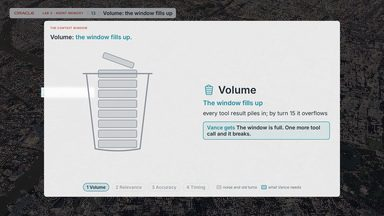
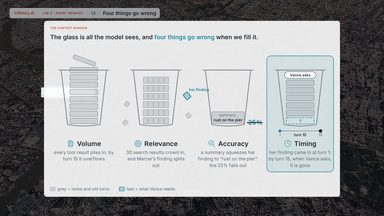
Lab 3 page 13: back to one page with the four glasses in one picture, appearing one after another (the active one lit); Timing retold on a timeline; page 16 footer removed

diff --git a/src/overlay/concepts/Glass.tsx b/src/overlay/concepts/Glass.tsx
@@ -9,8 +9,8 @@ export interface GlassProps {
   kicker: string;
   /** the one line the presenter lands; **teal** and !!red!! marks as in Rich.tsx */
   message: string;
-  /** 1: the glass fills with what goes into the context window; 2 to 5: the four ways that goes wrong, one click each (Volume, Relevance, Accuracy, Timing; owner, 4 Nov) */
-  step: 1 | 2 | 3 | 4 | 5;
+  /** 1: the glass fills with what goes into the context window; 2: the four ways that goes wrong */
+  step: 1 | 2;
   notebook?: string;
 }
 
@@ -51,7 +51,7 @@ export function Glass({ kicker, message, step, notebook }: GlassProps) {
           </motion.div>
         ) : (
           <motion.div key="wrong" exit={{ opacity: 0 }} transition={{ duration: 0.3 }} style={{ flex: 1, minHeight: 0, display: 'flex', flexDirection: 'column' }}>
-            <OneProblem i={step - 2} />
+            <FourGlasses />
           </motion.div>
         )}
       </AnimatePresence>
@@ -209,9 +209,9 @@ export const WRONG: { word: string; text: string }[] = [
 /** a tumbler 200 wide, rim at y=40, base at y=230; pieces are drawn inside it */
 const TUMBLER = 'M22 40L44 228Q100 238 156 228L178 40';
 
-export function MiniGlass({ word, t0, children, max = 290 }: { word: string; t0: number; children: (t0: number) => ReactNode; max?: number }) {
+export function MiniGlass({ word, t0, children }: { word: string; t0: number; children: (t0: number) => ReactNode }) {
   return (
-    <svg data-glass={word} width={max} height={(max * 270) / 200} viewBox="0 0 200 270" style={{ overflow: 'visible', width: '100%', maxWidth: max, height: 'auto' }} aria-hidden="true">
+    <svg data-glass={word} width={290} height={392} viewBox="0 0 200 270" style={{ overflow: 'visible', width: '100%', maxWidth: 290, height: 'auto' }} aria-hidden="true">
       {children(t0)}
       <path d={TUMBLER} fill="none" stroke={GREY_LINE} strokeWidth={3} strokeLinejoin="round" />
       <line x1={14} y1={40} x2={186} y2={40} stroke={GREY_LINE} strokeWidth={3} strokeLinecap="round" />
@@ -304,7 +304,7 @@ const AccuracyGlass = (t0: number) => (
     <motion.g data-piece="summary" initial={{ opacity: 0, scale: 0.7 }} animate={{ opacity: 1, scale: 1 }} transition={{ delay: t0 + 1.3, duration: 0.45, ease: EASE }} style={{ transformOrigin: '100px 205px' }}>
       <rect x={44} y={184} width={112} height={40} rx={4} fill={GREY_FILL} stroke={GREY_LINE} strokeWidth={1.5} />
       <text x={100} y={200} textAnchor="middle" fontSize={13} fill="var(--ink-dim)">summary:</text>
-      <text x={100} y={217} textAnchor="middle" fontSize={12} fontWeight={600} fill="var(--ink)">rust on the pier</text>
+      <text x={100} y={217} textAnchor="middle" fontSize={14} fontWeight={600} fill="var(--ink)">rust on the pier</text>
     </motion.g>
     {/* the number falls out over the rim, struck through */}
     <motion.g data-piece="lost" initial={{ opacity: 0, x: 0, y: 0 }} animate={{ opacity: [0, 1, 1], x: [0, 0, 92], y: [0, -40, 60] }} transition={{ delay: t0 + 1.2, duration: 1.1, times: [0, 0.35, 1], ease: EASE }}>
@@ -366,7 +366,7 @@ function useTick(from: number, to: number, delay: number, secs: number): number 
 function TurnCounter({ t0 }: { t0: number }) {
   const n = useTick(1, 15, t0 + 1.2, 2.6);
   return (
-    <text x={100} y={282} textAnchor="middle" fontSize={15} fontWeight={700} fill="var(--ink)">
+    <text x={100} y={268} textAnchor="middle" fontSize={13} fontWeight={700} fill="var(--ink)">
       turn {n}
     </text>
   );
@@ -394,86 +394,60 @@ export const TimingStory = (t0: number) => (
       <text x={100} y={62} textAnchor="middle" fontSize={13} fontWeight={600} fill="var(--ink)">Vance asks</text>
     </motion.g>
     <g fontSize={13} fill="var(--ink-dim)">
-      <line x1={30} y1={256} x2={170} y2={256} stroke={GREY_LINE} strokeWidth={2} />
-      <circle cx={30} cy={256} r={5} fill="var(--teal)" />
-      <motion.circle data-piece="clock" cy={256} r={6} fill="var(--ink)" initial={{ cx: 30, opacity: 0 }} animate={{ cx: [30, 30, 170], opacity: [0, 1, 1] }} transition={{ delay: t0 + 1.2, duration: 2.6, times: [0, 0.01, 1], ease: 'linear' }} />
-      <text x={30} y={273} textAnchor="middle">1</text>
-      <text x={170} y={273} textAnchor="middle">15</text>
+      <line x1={30} y1={250} x2={170} y2={250} stroke={GREY_LINE} strokeWidth={2} />
+      <circle cx={30} cy={250} r={5} fill="var(--teal)" />
+      <motion.circle data-piece="clock" cy={250} r={6} fill="var(--ink)" initial={{ cx: 30, opacity: 0 }} animate={{ cx: [30, 30, 170], opacity: [0, 1, 1] }} transition={{ delay: t0 + 1.2, duration: 2.6, times: [0, 0.01, 1], ease: 'linear' }} />
+      <text x={30} y={268} textAnchor="middle">1</text>
+      <text x={170} y={268} textAnchor="middle">15</text>
     </g>
     <TurnCounter t0={t0} />
   </>
 );
 
-/** what Vance gets, for each problem (one short line under its explanation) */
-const OUTCOME = [
-  'The window is full. One more tool call and it breaks.',
-  'Her finding is buried, then pushed out by the rest.',
-  '“Rust on the pier”, and no 25%.',
-  'A blank, where her finding should be.',
-];
+/**
+ * The four glasses play one after another (owner, 4 Nov: one page, the four glasses in one picture, each appearing in turn so the
+ * presenter can talk to one at a time). Each glass starts at its own time; the one playing is lit, the ones before it stay as they ended,
+ * the ones after it wait as empty tumblers. Timing needs the longest slot: it is a small story of its own.
+ */
+export const GLASS_STARTS = [0.5, 7, 13.5, 20];
 
-/** one click, one glass (owner, 4 Nov): a big drawing playing on its own, its explanation beside it, and the four problems as a tracker below */
-function OneProblem({ i }: { i: number }) {
-  const w = WRONG[i];
-  const c = CURATION[i];
-  const draw = i === 3 ? TimingStory : DRAW[i];
-  return (
-    <Fill>
-      <div style={{ flex: '1 0 auto', display: 'grid', gridTemplateColumns: 'minmax(0, 1fr) minmax(0, 1fr)', gap: 110, alignItems: 'center', padding: '4px 20px 0' }}>
-        <div data-problem={w.word} style={{ display: 'flex', justifyContent: 'center' }}>
-          <MiniGlass key={i} word={w.word} t0={0.5} max={400}>
-            {draw}
-          </MiniGlass>
-        </div>
-        <motion.div key={`t${i}`} initial={{ opacity: 0, x: 16 }} animate={{ opacity: 1, x: 0 }} transition={{ delay: 0.15, duration: 0.5, ease: EASE }}>
-          <div style={{ display: 'flex', alignItems: 'center', gap: 16, fontSize: 52, fontWeight: 700, color: 'var(--ink)' }}>
-            <LineIcon name={c.icon} size={60} />
-            {w.word}
-          </div>
-          <div style={{ fontSize: 32, fontWeight: 600, color: 'var(--teal)', marginTop: 14, lineHeight: 1.25 }}>{c.title}</div>
-          <div style={{ fontSize: 28, lineHeight: 1.4, color: 'var(--ink)', marginTop: 12 }}>{w.text}</div>
-          <motion.div data-outcome initial={{ opacity: 0 }} animate={{ opacity: 1 }} transition={{ delay: 2.6, duration: 0.5 }} style={{ marginTop: 22, padding: '12px 18px', borderRadius: 12, border: '2px solid var(--teal)', background: 'rgba(27,138,156,0.08)', fontSize: 26, fontWeight: 600, color: 'var(--ink)' }}>
-            <span style={{ color: 'var(--teal)' }}>Vance gets </span>
-            {OUTCOME[i]}
-          </motion.div>
-        </motion.div>
-      </div>
-      <div data-legend="glass" style={{ flex: 'none', display: 'flex', gap: 14, justifyContent: 'center', marginTop: 18, alignItems: 'center', flexWrap: 'wrap' }}>
-        {WRONG.map((x, k) => (
-          <span key={x.word} data-track={x.word} data-on={k === i || undefined} style={{ display: 'inline-flex', alignItems: 'center', gap: 8, padding: '6px 16px', borderRadius: 999, fontSize: 22, fontWeight: 700, border: `2px solid ${k === i ? 'var(--teal)' : 'var(--line)'}`, background: k === i ? 'rgba(27,138,156,0.14)' : 'transparent', color: k <= i ? 'var(--ink)' : 'var(--ink-dim)', opacity: k > i ? 0.6 : 1 }}>
-            {k < i ? '✓' : k + 1} {x.word}
-          </span>
-        ))}
-        <span style={{ display: 'inline-flex', gap: 22, marginLeft: 24, fontSize: 19, color: 'var(--ink-dim)' }}>
-          <span style={{ display: 'inline-flex', alignItems: 'center', gap: 8 }}>
-            <i style={{ width: 22, height: 16, borderRadius: 3, background: GREY_FILL, border: `1.5px solid ${GREY_LINE}` }} /> noise and old turns
-          </span>
-          <span style={{ display: 'inline-flex', alignItems: 'center', gap: 8 }}>
-            <i style={{ width: 22, height: 16, borderRadius: 3, background: TEAL_FILL, border: '2px solid var(--teal)' }} /> what Vance needs
-          </span>
-        </span>
-      </div>
-    </Fill>
-  );
+function useSeconds(max: number): number {
+  const [t, setT] = useState(0);
+  useEffect(() => {
+    const t0 = performance.now();
+    const id = window.setInterval(() => {
+      const s = (performance.now() - t0) / 1000;
+      setT(s);
+      if (s > max) window.clearInterval(id);
+    }, 100);
+    return () => window.clearInterval(id);
+  }, [max]);
+  return t;
 }
 
 function FourGlasses() {
+  const now = useSeconds(GLASS_STARTS[3] + 1);
+  const active = GLASS_STARTS.reduce((a, s, i) => (now >= s ? i : a), -1);
   return (
     <Fill>
       <div style={{ flex: '1 0 auto', display: 'grid', gridTemplateColumns: 'repeat(4, 1fr)', gap: 24, alignContent: 'center', paddingTop: 12 }}>
-        {WRONG.map((w, i) => (
-          <motion.div key={w.word} data-problem={w.word} initial={{ opacity: 0 }} animate={{ opacity: 1 }} transition={{ delay: 0.1 + i * 0.1, duration: 0.4 }} style={{ display: 'flex', flexDirection: 'column', alignItems: 'center', textAlign: 'center' }}>
-            <MiniGlass word={w.word} t0={START + i * SLOT}>
-              {DRAW[i]}
-            </MiniGlass>
-            {/* the same icon comes back when the problem is solved (Ending.tsx, 3.15b) */}
-            <div style={{ display: 'flex', alignItems: 'center', gap: 12, fontSize: 33, fontWeight: 700, color: 'var(--ink)', marginTop: 14 }}>
-              <LineIcon name={CURATION[i].icon} size={40} />
-              {w.word}
-            </div>
-            <div style={{ fontSize: 23, lineHeight: 1.4, color: 'var(--ink-dim)', marginTop: 8, maxWidth: 320 }}>{w.text}</div>
-          </motion.div>
-        ))}
+        {WRONG.map((w, i) => {
+          const started = i <= active;
+          const lit = i === active;
+          return (
+            <motion.div key={w.word} data-problem={w.word} data-active={lit || undefined} animate={{ opacity: started ? 1 : 0.35 }} transition={{ duration: 0.5 }} style={{ display: 'flex', flexDirection: 'column', alignItems: 'center', textAlign: 'center', padding: '14px 8px 18px', borderRadius: 22, background: lit ? 'rgba(27,138,156,0.10)' : 'transparent', boxShadow: lit ? 'inset 0 0 0 2.5px var(--teal)' : 'none', transition: 'background 500ms, box-shadow 500ms' }}>
+              <MiniGlass word={w.word} t0={GLASS_STARTS[i]}>
+                {i === 3 ? TimingStory : DRAW[i]}
+              </MiniGlass>
+              {/* the same icon comes back when the problem is solved (Ending.tsx, 3.15b) */}
+              <div style={{ display: 'flex', alignItems: 'center', gap: 12, fontSize: 33, fontWeight: 700, color: 'var(--ink)', marginTop: 14 }}>
+                <LineIcon name={CURATION[i].icon} size={40} />
+                {w.word}
+              </div>
+              <div style={{ fontSize: 23, lineHeight: 1.4, color: 'var(--ink-dim)', marginTop: 8, maxWidth: 320, opacity: started ? 1 : 0, transition: 'opacity 600ms' }}>{w.text}</div>
+            </motion.div>
+          );
+        })}
       </div>
       <div data-legend="glass" style={{ flex: 'none', display: 'flex', gap: 48, marginTop: 20, fontSize: 21, color: 'var(--ink-dim)' }}>
         <span style={{ display: 'flex', alignItems: 'center', gap: 10 }}>

diff --git a/src/content/scriptTh.ts b/src/content/scriptTh.ts
@@ -64,21 +64,11 @@ export const SCRIPT_TH: Record<string, string[]> = {
     "แก้วมีขนาดคงที่ และสิ่งที่อยู่นอกแก้วโมเดลมองไม่เห็นเลย ไม่ว่าจะเป็นแชตที่ปิดของ Mercer ฐานข้อมูล หรือเมื่อวาน"
   ],
   "3.3b": [
-    "เวลาเติมแก้ว มีสี่อย่างที่ผิดพลาดได้ เรามาดูทีละอย่าง อย่างแรกคือ ปริมาณ",
-    "ผลลัพธ์จากเครื่องมือกองเข้ามาในแก้วทั้งหมด พอถึงรอบที่ 15 ก็ล้น เรียกเครื่องมือเพิ่มอีกครั้งเดียว ระบบก็พัง"
-  ],
-  "3.3c": [
-    "อย่างที่สองคือ ความเกี่ยวข้อง ผลค้นหาสามสิบรายการเบียดกันเข้ามา มากกว่าที่แก้วจุได้ และล้นข้างแก้ว",
-    "ผลตรวจของ Mercer ก็หล่นออกไปด้วย เพราะข้อมูลส่วนใหญ่ที่เข้ามา Vance ไม่ได้ขอเลย"
-  ],
-  "3.3d": [
-    "อย่างที่สามคือ ความถูกต้อง เพื่อประหยัดที่ การสรุปบีบข้อมูลของเธอเหลือแค่ “มีสนิมที่เสา”",
-    "ตัวเลข 25 เปอร์เซ็นต์หลุดหายไป และรายละเอียดที่สำคัญก็หายไปด้วย"
-  ],
-  "3.3e": [
-    "อย่างที่สี่คือ จังหวะเวลา ผลตรวจของเธอถูกโหลดเข้ามาตั้งแต่รอบที่ 1 จากนั้นแต่ละรอบก็กองทับเข้ามา",
-    "พอถึงรอบที่ 15 ตอนที่ Vance ถามจริง ๆ มันถูกดันออกไปแล้ว เหลือที่ว่างตรงที่ควรมีผลตรวจ",
-    "ข้อมูลที่ถูกต้องแต่มาผิดจังหวะ: ถูกโหลดครั้งเดียวตอนเริ่ม และไม่มีใครดึงมาใหม่ตอนที่เขาถาม"
+    "เวลาเติมแก้ว มีสี่อย่างที่ผิดพลาดได้",
+    "หนึ่ง ปริมาณ ผลลัพธ์จากเครื่องมือกองเข้ามาทั้งหมด พอถึงรอบที่ 15 ก็ล้น",
+    "สอง ความเกี่ยวข้อง ผลค้นหาสามสิบรายการเบียดกันเข้ามา และผลตรวจของ Mercer ถูกดันตกออกไป",
+    "สาม ความถูกต้อง การสรุปบีบข้อมูลของเธอเหลือแค่ “มีสนิมที่เสา” และตัวเลข 25 เปอร์เซ็นต์ก็หลุดหายไป",
+    "สี่ จังหวะเวลา ผลตรวจของเธอเข้ามาตั้งแต่รอบที่ 1 พอถึงรอบที่ 15 ที่ Vance ถาม มันก็หายไปแล้ว"
   ],
   "3.4a": [
     "สามงานช่วยแก้สี่ปัญหา งานแรกคือ memory engineering คือตัดสินใจว่าจะเก็บอะไร และเก็บไว้ในที่ที่หาเจอ",

diff --git a/src/scenes/script.ts b/src/scenes/script.ts
@@ -98,10 +98,7 @@ export const SCRIPT: Record<string, string> = {
   '3.2c': 'One sentence from Mercer holds three kinds of knowledge. On Day 1 she reported: that is episodic, what happened, like a diary entry. About 25 percent section loss: that is semantic, what is true, like a fact sheet. Remove loose corrosion before coating: that is procedural, how to do the job, like a checklist. On Day 2, Vance asks three questions, and each one is answered by a different card.',
   '3.2e': 'Last, shared memory. Mercer keeps a private note for herself, and leaves her guideline and her finding on the shared shelf for Harbor Bridge. Vance can’t open her drawer, but he reads the shelf. The database enforces this, not the agent. That is the handoff Vance was missing.',
   '3.3a': 'The language model reads only what is in the glass, this turn. We fill it ourselves on every turn: the system prompt, the instructions, the tool list, the notes we retrieved, the chat so far and Vance’s question. It is a fixed size, and nothing outside it is seen: not Mercer’s closed chat, not the database, not yesterday.',
-  '3.3b': 'Filling it, four things go wrong, and we take them one at a time. First, volume: every tool result piles into the glass, and by turn 15 it overflows. One more tool call and it breaks.',
-  '3.3c': 'Second, relevance: thirty search results crowd in, more than the glass holds, and they spill over the rim. Mercer’s finding is among what spills out, because Vance never asked for most of what came in.',
-  '3.3d': 'Third, accuracy: to make room, a summary squeezes her finding down to “rust on the pier”. The 25 percent falls out, and with it the detail that mattered.',
-  '3.3e': 'Fourth, timing. Her finding was loaded at turn 1. Turn after turn piles in on top, and by turn 15, when Vance finally asks, it has been pushed out. The right memory, at the wrong moment: it was loaded once at the start, and nobody fetched it again when he asked.',
+  '3.3b': 'Filling it, four things go wrong. Volume: every tool result piles in, and by turn 15 it overflows. Relevance: thirty search results crowd in, and Mercer’s finding spills out. Accuracy: a summary squeezes her finding down to rust on the pier, and the 25 percent falls out. Timing: her finding came in at turn 1, and by turn 15, when Vance asks, it is gone.',
   '3.4a': 'Three jobs fix the four problems. First, memory engineering: decide what to keep, and file it where it won’t get lost. Like a clerk who files a report in labelled folders instead of piling it on the desk. When Mercer’s turn is over, it is filed as separate records: the conversation, the fact, the guideline. The glass is free again, and the 25 percent is its own record, so no summary can drop it. That fixes volume and accuracy.',
   '3.4b': 'Second, context engineering: for each question, pour in only what this question needs. Like a librarian who hands you the three pages you need, not the whole library. Vance asks what happened at this pier. We search the store and keep only Mercer’s finding and her guideline. Old chat turns become a one-line summary, and the glass is poured fresh, for this question. That fixes volume, relevance and timing.',
   '3.4c': 'Third, harness engineering: make it happen every turn, automatically. The harness is the loop your agent already runs in: LangGraph, an agents SDK, or your own Python. Like a shift routine on the wall: read the log first, write the log last. Every turn, the loop reads memory into the glass, acts, writes back what happened, and summarizes when the thread gets long. Nobody has to remember to look. That fixes volume and timing.',

diff --git a/tests/overlay/Glass.test.tsx b/tests/overlay/Glass.test.tsx
@@ -20,29 +20,18 @@ test('step 1: the glass fills bottom to top, Vance last with his portrait, the m
   expect(c.innerHTML).not.toMatch(/--red|#c74634/i);
 });
 
-test('steps 2 to 5: one problem per click, a big glass, its explanation, what Vance gets, and a tracker of the four', () => {
-  const words = ['Volume', 'Relevance', 'Accuracy', 'Timing'];
-  words.forEach((w, i) => {
-    const c = render(<Glass kicker="k" message="m" step={(i + 2) as 2 | 3 | 4 | 5} />).container;
-    expect([...c.querySelectorAll('[data-problem]')].map((e) => e.getAttribute('data-problem'))).toEqual([w]);
-    expect(c.querySelectorAll('[data-glass]')).toHaveLength(1);
-    expect(c.querySelector('[data-glass]')!.getAttribute('data-glass')).toBe(w);
-    expect(c.textContent).toContain(CURATION[i].title);
-    expect(c.querySelector('[data-outcome]')?.textContent).toContain('Vance gets');
-    expect([...c.querySelectorAll('[data-track]')].map((e) => e.getAttribute('data-track'))).toEqual(words);
-    expect(c.querySelector('[data-track][data-on]')!.getAttribute('data-track')).toBe(w);
+test('step 2: four small glasses, each failing its own way, with the legend', () => {
+  {
+    const c = render(<Glass kicker="k" message="m" step={2} />).container;
+    expect([...c.querySelectorAll('[data-problem]')].map((e) => e.getAttribute('data-problem'))).toEqual(['Volume', 'Relevance', 'Accuracy', 'Timing']);
+    for (const w of ['every tool result piles in; by turn 15 it overflows', 'Mercer’s finding spills out', 'the 25% falls out', 'by turn 15, when Vance asks, it is gone', 'grey = noise and old turns', 'teal = what Vance needs']) expect(c.textContent).toContain(w);
+    // Mercer's finding is the one teal cell among the grey results
+    expect(c.querySelectorAll('[data-piece="finding"]').length).toBeGreaterThanOrEqual(1);
+    expect(c.querySelectorAll('[data-glass="Relevance"] [data-piece="finding"]')).toHaveLength(1);
+    expect(c.querySelector('[data-glass="Accuracy"] [data-piece="lost"]')?.textContent).toBe('25%');
     expect(c.querySelectorAll('[data-layer]')).toHaveLength(0);
     expect(c.innerHTML).not.toMatch(/--red|#c74634/i);
-  });
-  const r = render(<Glass kicker="k" message="m" step={3} />).container;
-  expect(r.querySelectorAll('[data-glass="Relevance"] [data-piece="finding"]')).toHaveLength(1);
-  const a = render(<Glass kicker="k" message="m" step={4} />).container;
-  expect(a.querySelector('[data-glass="Accuracy"] [data-piece="lost"]')?.textContent).toBe('25%');
-  const t = render(<Glass kicker="k" message="m" step={5} />).container;
-  expect(t.querySelector('[data-glass="Timing"] [data-piece="finding"]')).not.toBeNull();
-  expect(t.querySelector('[data-glass="Timing"] [data-piece="gone"]')).not.toBeNull();
-  expect(t.querySelector('[data-glass="Timing"] [data-piece="ask"]')?.textContent).toContain('Vance asks');
-  expect(t.querySelectorAll('[data-glass="Timing"] [data-piece="turn"]')).toHaveLength(5);
+  }
 });
 
 test('CURATION keeps its four problems and icons for Ending and the new pages', () => {

diff --git a/src/scenes/chapter2.ts b/src/scenes/chapter2.ts
@@ -140,11 +140,7 @@ const b22e = atRust('3.2e', 'Private drawer, shared shelf', 'SharedShelf', { kic
  * Bridge story in three steps, then the recap grid; this afternoon's loop now lives in the harness page.
  */
 const b23a = atRust('3.3a', 'The glass', 'Glass', { kicker: 'The context window, “the glass”', step: 1, message: 'The language model reads **only what is in the glass**, this turn.' } satisfies GlassProps, 'glass');
-const GLASS_K = 'The context window';
-const b23b = atRust('3.3b', 'Volume: the window fills up', 'Glass', { kicker: GLASS_K, step: 2, message: 'Volume: **the window fills up.**' } satisfies GlassProps, 'glass');
-const b23c = atRust('3.3c', 'Relevance: wrong data is in it', 'Glass', { kicker: GLASS_K, step: 3, message: 'Relevance: **the wrong data is in it.**' } satisfies GlassProps, 'glass');
-const b23d = atRust('3.3d', 'Accuracy: summaries lose details', 'Glass', { kicker: GLASS_K, step: 4, message: 'Accuracy: **summaries lose details.**' } satisfies GlassProps, 'glass');
-const b23e = atRust('3.3e', 'Timing: the right memory, at the wrong moment', 'Glass', { kicker: GLASS_K, step: 5, message: 'Timing: **the right memory, at the wrong moment.**' } satisfies GlassProps, 'glass');
+const b23b = atRust('3.3b', 'Four things go wrong', 'Glass', { kicker: 'The context window', step: 2, message: 'The glass is all the model sees, and **four things go wrong** when we fill it.' } satisfies GlassProps, 'glass');
 const b24a = atRust('3.4a', 'Memory engineering', 'Discipline', { kicker: '① Memory engineering', which: 'memory', message: 'Decide what to keep, and **file it where it won’t get lost**.' } satisfies DisciplineProps);
 const b24b = atRust('3.4b', 'Context engineering', 'Discipline', { kicker: '② Context engineering', which: 'context', message: 'For each question, **pour in only what this question needs**.' } satisfies DisciplineProps);
 const b24c = atRust('3.4c', 'Harness engineering', 'Discipline', { kicker: '③ Harness engineering', which: 'harness', message: 'Make it happen **every turn, automatically**.' } satisfies DisciplineProps);
@@ -257,9 +253,6 @@ export const chapter2: SceneDef[] = [
   b22e,
   b23a,
   b23b,
-  b23c,
-  b23d,
-  b23e,
   b24a,
   b24b,
   b24c,

diff --git a/tests/scenes/chapters12.test.ts b/tests/scenes/chapters12.test.ts
@@ -24,7 +24,7 @@ const CH1_BEATS = [
   '2.8f', // §6 Wrap
   '2.9', // the recap
 ];
-const CH2_BEATS = ['3.0', '3.1a', '3.1b', '3.1c', '3.2a', '3.2b', '3.2p', '3.2q', '3.2r', '3.2c', '3.2e', '3.3a', '3.3b', '3.3c', '3.3d', '3.3e', '3.4a', '3.4b', '3.4c', '3.4d', '3.5b', '3.6', '3.7', '3.8a', '3.8b', '3.9', '3.10', '3.11', '3.12a', '3.12b', '3.13', '3.13a', '3.14', '3.14a', '3.15', '3.15b', '3.15c', '3.16', '3.16a', '3.17', '3.18'];
+const CH2_BEATS = ['3.0', '3.1a', '3.1b', '3.1c', '3.2a', '3.2b', '3.2p', '3.2q', '3.2r', '3.2c', '3.2e', '3.3a', '3.3b', '3.4a', '3.4b', '3.4c', '3.4d', '3.5b', '3.6', '3.7', '3.8a', '3.8b', '3.9', '3.10', '3.11', '3.12a', '3.12b', '3.13', '3.13a', '3.14', '3.14a', '3.15', '3.15b', '3.15c', '3.16', '3.16a', '3.17', '3.18'];
 
 const beats = (ch: typeof chapter1) => ch.map((s) => s.id);
 
@@ -52,7 +52,7 @@ test('SCENES runs the parts in show order: Introduction, Lab 1 (when in the show
   const order = PARTS.map((c) => SCENES.filter((s) => s.chapter === c).map((s) => s.id)).flat();
   expect(SCENES.map((s) => s.id)).toEqual(order);
   // Introduction 7 (the city, then the bridge's four clicks); Lab 2 the deck's 58 pages and the recap
-  expect(SCENES.length).toBe(7 + (WITH_LAB1 ? lab1.length : 0) + CH1_BEATS.length + 41);
+  expect(SCENES.length).toBe(7 + (WITH_LAB1 ? lab1.length : 0) + CH1_BEATS.length + 38);
   expect(CH1_BEATS).toHaveLength(42);
 });
 

diff --git a/tests/overlay/ExplainerPanels.test.tsx b/tests/overlay/ExplainerPanels.test.tsx
@@ -9,12 +9,11 @@ test('3.5b the three-layer stack; the model is not called the LLM', () => {
 });
 
 test('3.2 to 3.5 stay at the rust, desk and cabinet share one panel, the glass shares one panel', () => {
-  const ids = ['3.2a', '3.2b', '3.2p', '3.2c', '3.2e', '3.3a', '3.3b', '3.3c', '3.3d', '3.3e', '3.4a', '3.4b', '3.4c', '3.4d', '3.5b'];
+  const ids = ['3.2a', '3.2b', '3.2p', '3.2c', '3.2e', '3.3a', '3.3b', '3.4a', '3.4b', '3.4c', '3.4d', '3.5b'];
   const pages = ids.map((id) => chapter2.find((s) => s.id === id)!);
   expect(pages.every((p) => p.shot === 'pier2-close')).toBe(true);
   expect(pages[0].overlayGroup).toBe(pages[1].overlayGroup);
   expect(pages[5].overlayGroup).toBe(pages[6].overlayGroup);
-  expect(pages[7].overlayGroup).toBe(pages[9].overlayGroup); // the four glasses share the panel too
-  expect(pages.slice(10, 13).map((p) => (p.overlayProps as { which: string }).which)).toEqual(['memory', 'context', 'harness']);
-  expect(pages[13].overlay).toBe('WhoFixesWhat');
+  expect(pages.slice(7, 10).map((p) => (p.overlayProps as { which: string }).which)).toEqual(['memory', 'context', 'harness']);
+  expect(pages[10].overlay).toBe('WhoFixesWhat');
 });

diff --git a/src/scenes/sections.ts b/src/scenes/sections.ts
@@ -19,7 +19,7 @@ export const SECTIONS: Section[] = [
   // Lab 2 follows the Harbor Bridge deck's chapters (owner, 29 Oct): Story, Why, §0 to §6, then the recap
   ...LAB2_CHAPTERS.map((c): Section => ({ chapter: 1, name: c.name, pages: c.pages.map((p) => p.id) })),
   { chapter: 2, name: 'The agent that forgets', pages: ['3.0', '3.1a', '3.1b', '3.1c'] },
-  { chapter: 2, name: 'How memory works', pages: ['3.2a', '3.2b', '3.2p', '3.2q', '3.2r', '3.2c', '3.2e', '3.3a', '3.3b', '3.3c', '3.3d', '3.3e', '3.4a', '3.4b', '3.4c', '3.4d', '3.5b', '3.6'] },
+  { chapter: 2, name: 'How memory works', pages: ['3.2a', '3.2b', '3.2p', '3.2q', '3.2r', '3.2c', '3.2e', '3.3a', '3.3b', '3.4a', '3.4b', '3.4c', '3.4d', '3.5b', '3.6'] },
   { chapter: 2, name: 'Writing and finding memories', pages: ['3.7', '3.8a', '3.8b', '3.9', '3.10', '3.11', '3.12a', '3.12b'] },
   { chapter: 2, name: 'Back on the bridge', pages: ['3.13', '3.13a', '3.14', '3.14a', '3.15', '3.15b', '3.15c', '3.16', '3.16a'] },
   { chapter: 2, name: 'Closing Lab 3', pages: ['3.17'] },

diff --git a/tests/overlay/Icons.test.tsx b/tests/overlay/Icons.test.tsx
@@ -6,8 +6,7 @@ const icons = (c: HTMLElement) => [...c.querySelectorAll('svg[data-icon]')].map(
 
 test('the four failures carry the same icons on the glass and when solved', () => {
   const four = ['overflow', 'target', 'inspect', 'clock'];
-  // one problem per click: each click shows its own icon (the same one that comes back when solved)
-  expect([2, 3, 4, 5].map((s) => icons(render(<Glass kicker="k" message="m" step={s as 2 | 3 | 4 | 5} />).container)[0])).toEqual(four);
+  expect(icons(render(<Glass kicker="k" message="m" step={2} />).container)).toEqual(four);
   expect(icons(render(<FailuresSolved kicker="k" message="m" />).container)).toEqual(four);
 });
 

diff --git a/tests/follow.test.ts b/tests/follow.test.ts
@@ -100,6 +100,6 @@ test('the QR for a join address is a real code, and every Thai script page is a 
   expect(q.d.startsWith('M')).toBe(true);
   const ids = new Set(SCENES.map((s) => s.id));
   for (const id of Object.keys(SCRIPT_TH)) expect(ids.has(id), id).toBe(true);
-  expect(Object.keys(SCRIPT_TH)).toHaveLength(41);
+  expect(Object.keys(SCRIPT_TH)).toHaveLength(38);
   for (const s of SCENES.filter((x) => x.chapter === 2)) expect(SCRIPT_TH[s.id], s.id).toBeTruthy(); // all of Lab 3 has Thai
 });
